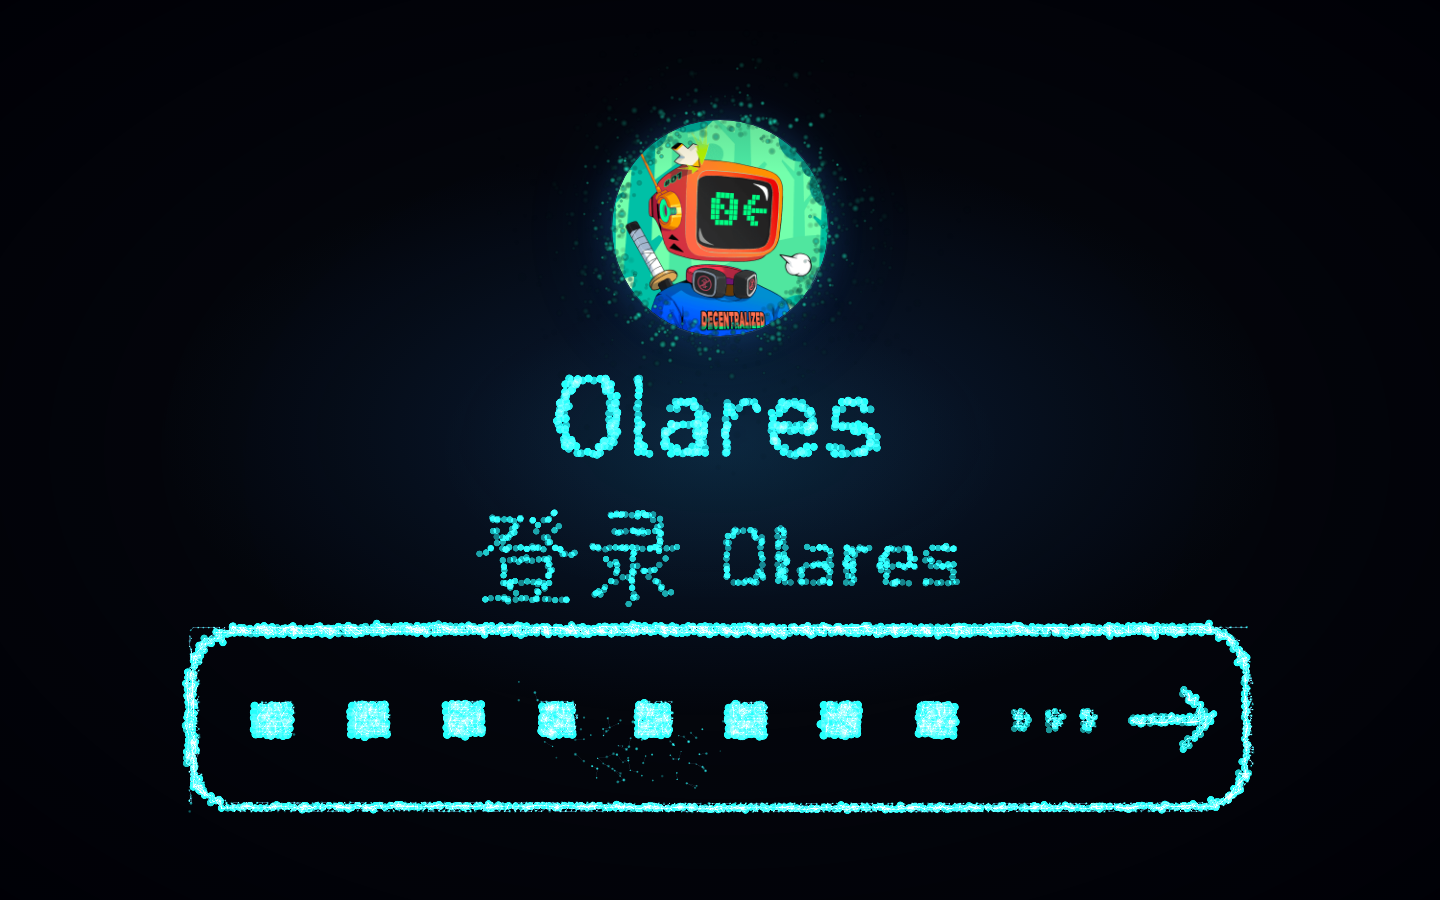
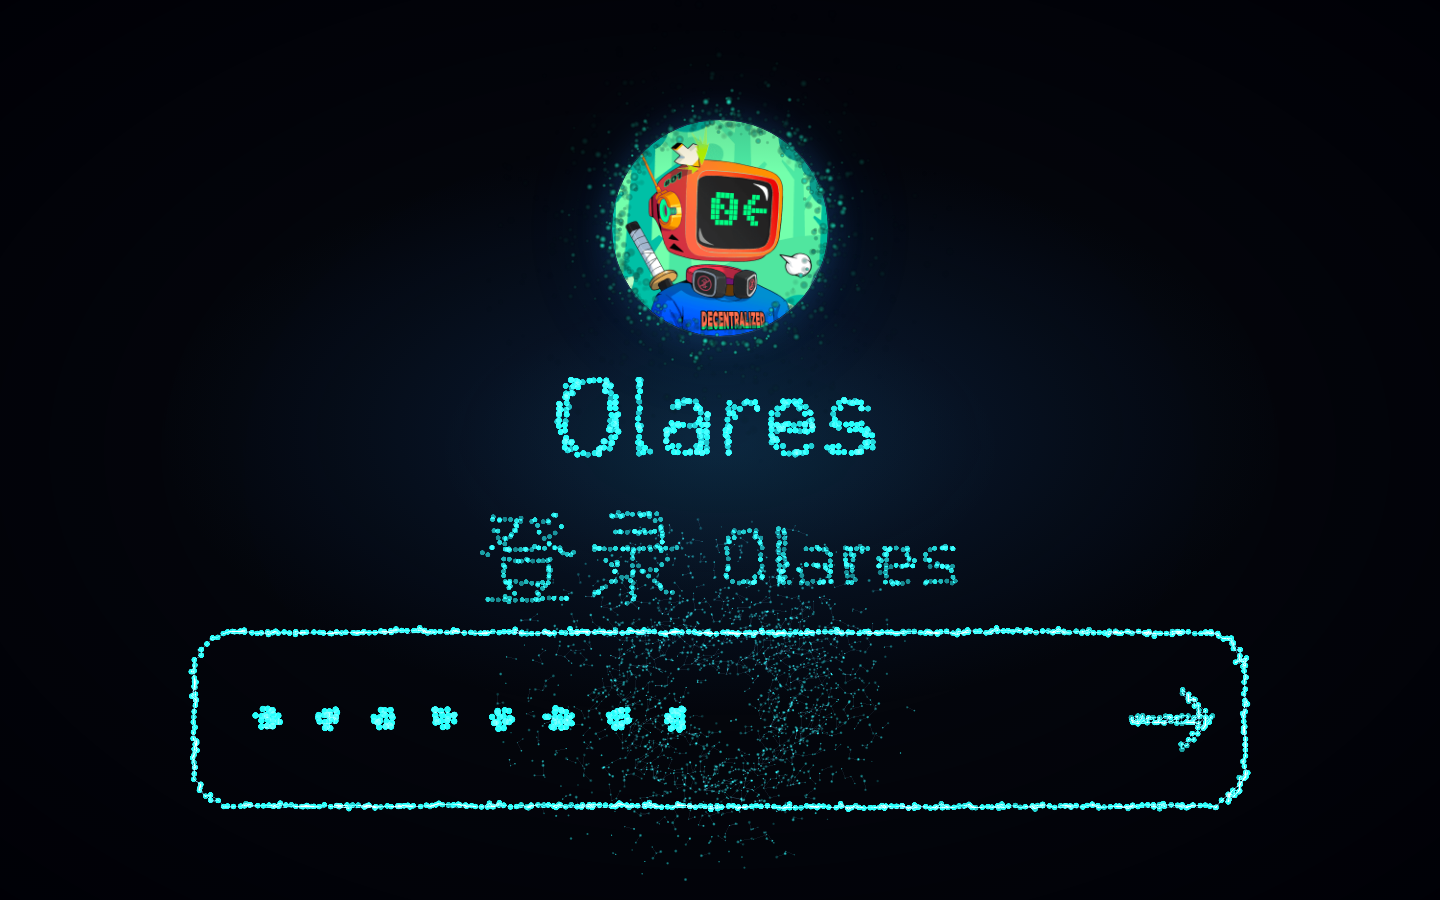
fix(auth): 打字时粒子不再整批重洗（槽位改粘性分配）
症状：输入密码时，刚灌进去的粒子被"消耗"掉，鼠标周围的一批又灌进来，来回换。

原因：setSlots 每次都 `cMode.fill(0)`，然后按「到控件中心的距离」重新排名分配。
每敲一个键就重算一次 → 同一颗粒子这一帧是槽位、下一帧被踢回环绕飞向指针、
再下一帧又被抓回输入框。2400 颗全在换角色，当然乱。

改成**粘性分配**：每颗粒子记住自己占的是哪一格（slotKey = 细格索引）。
- 格子还在（打字时边框、已有密码点的格子全都没变）→ 原地不动，只更新目标坐标
- 格子没了（删字符、占位符消失）→ 回环绕
- 新增格子（多一个密码点）→ 只从环绕粒子按距离补这几颗

实测连续输入 a/b/c/d：
  a: stayed 328, left 104, joined 23   ← 104 是"密码"占位符消失，正确
  b: stayed 351, left   0, joined 32
  c: stayed 383, left   0, joined 31
  d: stayed 414, left   0, joined 27
从第二个字符起 left 恒为 0 —— 没有任何粒子被踢出槽位。61fps。

顺带：
- applyHot 里点径写的是旧的 1.38（setPoints 早改成 1.06），悬停时骨架点凭空粗 30%
- 密码点从 16px 方块（6.4 格，比字还重）改成 10px 圆点：方块直角在点阵里缺角，
  栅格化后是小乱码；圆形出来是干净的圆斑
- 环绕云亮度 1.0 → 0.75：之前比密码点还亮，盖住内容

Changed region(s): [[0.125, 0.56, 0.875, 0.9022], [0.4062, 0.0933, 0.5938, 0.4044], [0.375, 0.4044, 0.625, 0.5289]]

diff --git a/auth/src/field.js b/auth/src/field.js
@@ -231,6 +231,7 @@ export class Field {
     this.cOrbS = new Float32Array(CLOUD_N);
     this.cSize = new Float32Array(CLOUD_N);
     this.cAmp = new Float32Array(CLOUD_N);
+    this.slotKey = new Int32Array(CLOUD_N).fill(-1);  // 粘性分配：粒子占的是哪一格
     this.slotX = new Float32Array(CLOUD_N);
     this.slotY = new Float32Array(CLOUD_N);
     this.cFade = new Float32Array(CLOUD_N);
@@ -621,52 +622,103 @@ export class Field {
    * @param id   控件 id（只用于记录，容量系数由调用方算好后传入）
    * @param capK 容量系数：线条类接近 1（越灌越亮），大段文字要低（会糊）
    */
+  /**
+   * 给悬停的控件分配增援槽位。
+   *
+   * **必须做粘性分配**：密码框里每多打一个字符，scanPart 的结果就会变
+   * （多一个密码点、光标位置动了）。如果每次都 cMode.fill(0) 再按距离重排，
+   * 所有粒子的角色会整批重洗 —— 这一帧是槽位的，下一帧被踢回环绕飞向指针，
+   * 再下一帧又被抓回输入框。观感就是"刚灌进去的被消耗掉，鼠标周围的又灌进来"，
+   * 一片混乱。
+   *
+   * 所以每颗粒子记住自己占的是哪一格（slotKey）：格子还在就原地不动、
+   * 只更新目标坐标；格子没了就回环绕；新增的格子才从环绕粒子按距离补。
+   */
   setSlots(pts, id, capK, scale, LW, LH) {
     if (!pts || !pts.length) { this.clearSlots(); return; }
+    const same = this.slot.id === id;
     this.slot.id = id;
 
-    const M = pts.length / 3;
+    const M = pts.length / 4;              // [x, y, role, key]
     const useCount = Math.min(CLOUD_N, Math.ceil(M * capK));
     const ox = LW / 2, oy = LH / 2;
-
-    /* 槽位中心（世界坐标） */
-    let cx = 0, cy = 0;
-    for (let k = 0; k < M; k++) {
-      cx += (pts[k * 3] - ox) * scale;
-      cy += (oy - pts[k * 3 + 1]) * scale;
-    }
-    cx /= M; cy /= M;
-
-    /* 按到控件中心的距离排序：近的先拿到槽位 → 看起来是"从指针这边灌进去" */
-    const order = new Int32Array(CLOUD_N);
-    for (let i = 0; i < CLOUD_N; i++) order[i] = i;
-    const px = this.cPos;
-    const arr = Array.from(order);
-    arr.sort((a, b) => {
-      const da = (px[a * 2] - cx) ** 2 + (px[a * 2 + 1] - cy) ** 2;
-      const db = (px[b * 2] - cx) ** 2 + (px[b * 2 + 1] - cy) ** 2;
-      return da - db;
-    });
-
-    this.cMode.fill(0);
-    /* 半格交错只对**面状**控件（文字）有意义：让增援点落在骨架点之间，均匀加密。
+    /* 半格交错只对**面状**控件（文字）有意义：让增援点落在骨架点之间均匀加密。
        线条类（边框/箭头）绝不能交错 —— 骨架点是 5.96px 的圆点，再在旁边 3px 处
-       压一个同样的点，视觉宽度直接撑到 9px，看起来就是"灌注后凭空描了一圈粗边"。
-       所以 contour 类 off = 0，与骨架点重合，只叠亮度、不改粗细。 */
+       压一个同样的点，视觉宽度直接撑到 9px，看起来就是"灌注后凭空描了一圈粗边"。 */
     const contour = id === 'input' || id === 'button';
     const off = contour ? 0 : CELL_R * scale * 0.5;
-    for (let k = 0; k < useCount; k++) {
-      const pi = arr[k];
-      /* 槽位是等距抽样分配的：M 可能大于或小于 useCount，都均匀铺开 */
-      const s = Math.min(M - 1, ((k + 0.5) * M / useCount) | 0);
-      this.cMode[pi] = 1;
-      this.cRole[pi] = pts[s * 3 + 2];
-      this.slotX[pi] = (pts[s * 3] - ox) * scale + off;
-      this.slotY[pi] = (oy - pts[s * 3 + 1]) * scale + off;
-    }
-    for (let k = useCount; k < CLOUD_N; k++) this.cRole[arr[k]] = 0;
 
-    this.slot.fill = useCount / CLOUD_N;
+    /* 新槽位的世界坐标 + key → 下标 */
+    const sx = new Float32Array(M), sy = new Float32Array(M), sr = new Uint8Array(M);
+    const keyAt = new Map();
+    for (let k = 0; k < M; k++) {
+      sx[k] = (pts[k * 4] - ox) * scale + off;
+      sy[k] = (oy - pts[k * 4 + 1]) * scale + off;
+      sr[k] = pts[k * 4 + 2];
+      const key = pts[k * 4 + 3];
+      if (!keyAt.has(key)) keyAt.set(key, k);
+    }
+
+    const claimed = new Uint8Array(M);
+    let used = 0;
+
+    if (same) {
+      /* ① 粘性：已是槽位的粒子跟着自己那一格走 */
+      for (let i = 0; i < CLOUD_N; i++) {
+        if (this.cMode[i] !== 1) continue;
+        if (used >= useCount) { this.cMode[i] = 0; this.cRole[i] = 0; continue; }
+        const k = keyAt.get(this.slotKey[i]);
+        if (k !== undefined && !claimed[k]) {
+          claimed[k] = 1;
+          this.cRole[i] = sr[k];
+          this.slotX[i] = sx[k];
+          this.slotY[i] = sy[k];
+          used++;
+        } else {
+          this.cMode[i] = 0;      // 这一格没了（比如删掉一个字符）→ 回环绕
+          this.cRole[i] = 0;
+        }
+      }
+    } else {
+      /* 换控件：全部释放，重新从指针周围灌（这一跳是想要的过渡） */
+      this.cMode.fill(0);
+      this.cRole.fill(0);
+    }
+
+    /* ② 补空位：从环绕粒子按"离控件中心由近及远"取，看起来是从指针那边灌进去 */
+    if (used < useCount) {
+      const free = [];
+      for (let k = 0; k < M; k++) if (!claimed[k]) free.push(k);
+
+      let ccx = 0, ccy = 0;
+      for (let k = 0; k < M; k++) { ccx += sx[k]; ccy += sy[k]; }
+      ccx /= M; ccy /= M;
+
+      const cand = [];
+      for (let i = 0; i < CLOUD_N; i++) if (this.cMode[i] !== 1) cand.push(i);
+      const px = this.cPos;
+      cand.sort((a, b) => {
+        const da = (px[a * 2] - ccx) ** 2 + (px[a * 2 + 1] - ccy) ** 2;
+        const db = (px[b * 2] - ccx) ** 2 + (px[b * 2 + 1] - ccy) ** 2;
+        return da - db;
+      });
+
+      const need = Math.min(useCount - used, cand.length, free.length);
+      for (let j = 0; j < need; j++) {
+        const pi = cand[j];
+        /* 空槽位等距抽样 → 粒子均匀铺开，不会全挤在文字开头 */
+        const k = free[Math.min(free.length - 1, ((j + 0.5) * free.length / need) | 0)];
+        claimed[k] = 1;
+        this.cMode[pi] = 1;
+        this.cRole[pi] = sr[k];
+        this.slotKey[pi] = pts[k * 4 + 3];
+        this.slotX[pi] = sx[k];
+        this.slotY[pi] = sy[k];
+        used++;
+      }
+    }
+
+    this.slot.fill = used / CLOUD_N;
     this.applyHot(id, scale);   // 骨架里属于该控件的点整体提亮
     this.rebuildSlotLinks();
   }
@@ -676,7 +728,7 @@ export class Field {
     this.hotPart = id || null;
     for (let i = 0; i < this.top; i++) {
       this.hot[i] = id && ROLE_PART[this.role[i]] === id ? 1 : 0;
-      if (scale) this.sScale[i] = CELL * scale * 1.38 * (ROLE_S[this.role[i]] ?? 1);
+      if (scale) this.sScale[i] = CELL * scale * 1.06 * (ROLE_S[this.role[i]] ?? 1);
     }
     this.geo.attributes.aHot.needsUpdate = true;
     if (scale) this.geo.attributes.aSize.needsUpdate = true;
@@ -966,7 +1018,7 @@ export class Field {
          （ROLE_A 0.70 vs 0.88），灌注时不能一视同仁提到 1.15 —— 那会让边框
          比文字还亮，看起来像"把控件外框描了出来"。 */
       const slotA = this.cRole[i] === 3 ? 0.72 : 1.15;
-      const base = this.cMode[i] === 1 ? slotA : (this.ptr.on ? 1.0 : 0.30);
+      const base = this.cMode[i] === 1 ? slotA : (this.ptr.on ? 0.75 : 0.30);
       this.cAlpha[i] = this.cAmp[i] * base * this.cFade[i] * burst * this.gainC;
     }
 

diff --git a/auth/src/ui.js b/auth/src/ui.js
@@ -217,27 +217,37 @@ function drawInput(c, s) {
   if (n === 0 && !s.focused) {
     uiText(c, ROLE.PLACE, 46, '密码', padX, cy, 'left');
   } else {
-    /* 密码点：6.4 格见方的实心块，一眼看出有几个字符 */
-    const box = 16;
-    const gap = 26;
+    /* 密码点：4 格见方（屏幕 22px）。16px（6.4 格）时它比字还重，
+       一排方块压在输入框里，视觉重心直接从"界面"掉到"密码框"。
+       间距也从 26 收到 16，让 8 个字符仍然排在框体前 2/3 以内。 */
+    const box = 10;
+    const gap = 16;
     let dx = padX;
     const maxVisible = Math.floor((I.w - 100) / (box + gap));
+    /* 圆点：方块的直角在点阵里缺角，4×4 格出来是"小乱码"；圆形栅格化后
+       是干净的 3×3~4×4 圆斑，才像官方那种 bullet */
+    const dot = (px, py, r, role) => {
+      c.fillStyle = tone(role);
+      c.beginPath();
+      c.arc(px, py, r, 0, 6.2832);
+      c.fill();
+    };
     for (let i = 0; i < Math.min(n, maxVisible); i++) {
-      c.fillStyle = tone(ROLE.DOT);
-      c.fillRect(dx, cy - box / 2, box, box);
+      dot(dx + box / 2, cy, box / 2, ROLE.DOT);
       dx += box + gap;
     }
     /* 光标位 */
     if (s.focused && n < maxVisible) {
-      c.fillStyle = tone(ROLE.CURSOR);
-      c.fillRect(dx, cy - box / 2, box, box);
+      dot(dx + box / 2, cy, box / 2, ROLE.CURSOR);
     }
     if (n > maxVisible) {
       /* 溢出的用三个点表示 */
       c.fillStyle = tone(ROLE.HINT);
-      const d3 = 7, g3 = 8;
+      const d3 = 5, g3 = 7;
       for (let i = 0; i < 3; i++) {
-        c.fillRect(dx + i * (d3 + g3), cy - d3 / 2, d3, d3);
+        c.beginPath();
+        c.arc(dx + i * (d3 + g3) + d3 / 2, cy, d3 / 2, 0, 6.2832);
+        c.fill();
       }
     }
   }
@@ -377,7 +387,10 @@ export function scan(ctx) {
 /**
  * 只扫某个控件，用细网格 —— 给增援层当槽位。
  * 注意：会清空并重画画布，调用方事后要 paint() 还原。
- * @returns {number[]} [x, y, role] 三元组，行优先（已按 y,x 有序）
+ * @returns {number[]} [x, y, role, key] 四元组，行优先（已按 y,x 有序）。
+ *   key 是格子索引，setSlots 靠它做**粘性分配**：密码框里多打一个字符时，
+ *   边框那些格子的 key 一个都没变，占着它们的粒子就该继续待在那儿，
+ *   而不是每敲一个键就整批重洗一遍角色（那就是"乱"的来源）。
  */
 export function scanPart(ctx, s, id, scale) {
   const r = RECT[id];
@@ -401,6 +414,6 @@ export function scanPart(ctx, s, id, scale) {
     d, W, H, sat, cell, TH_R,
     Math.max(0, r.x - pad), Math.max(0, r.y - pad),
     Math.min(W, r.x + r.w + pad), Math.min(H, r.y + r.h + pad),
-    false,
+    true,   // 带 key：供增援层做粘性分配
   );
 }
